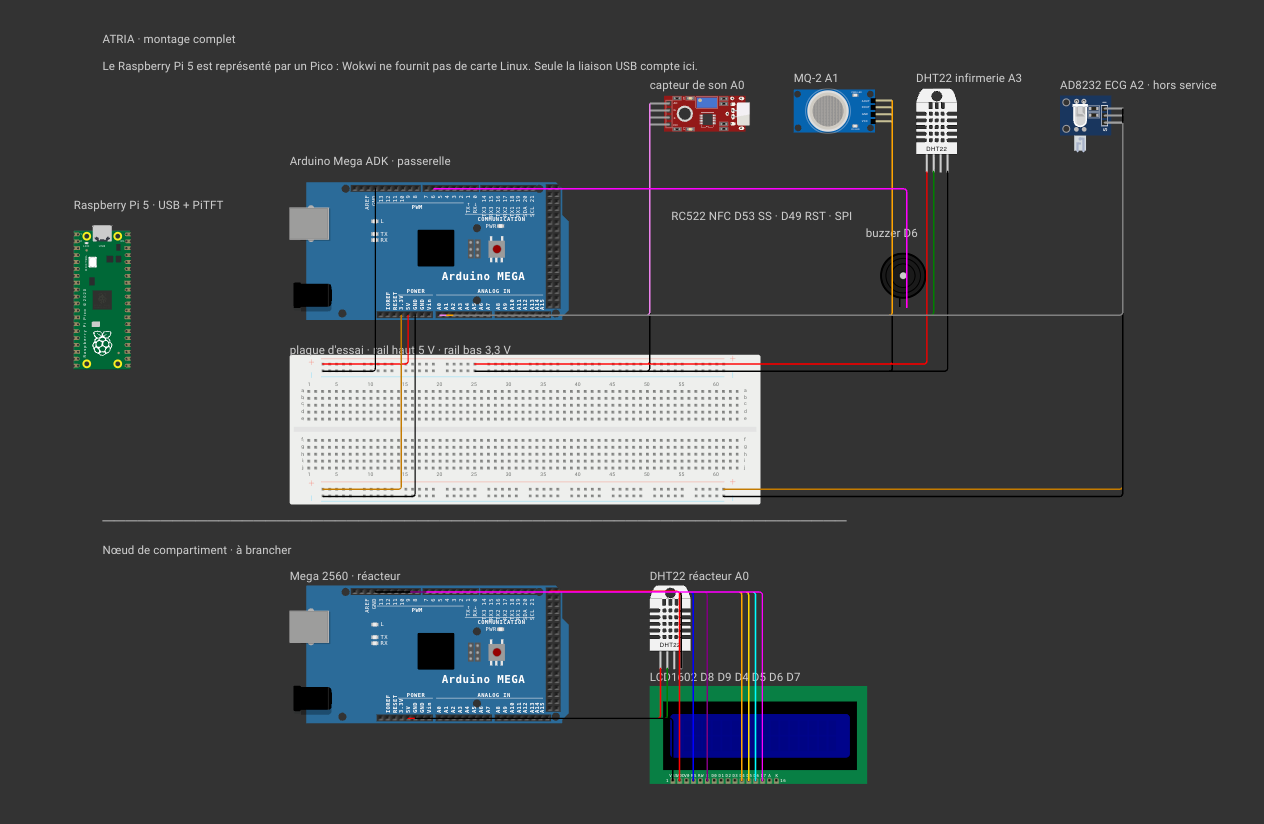
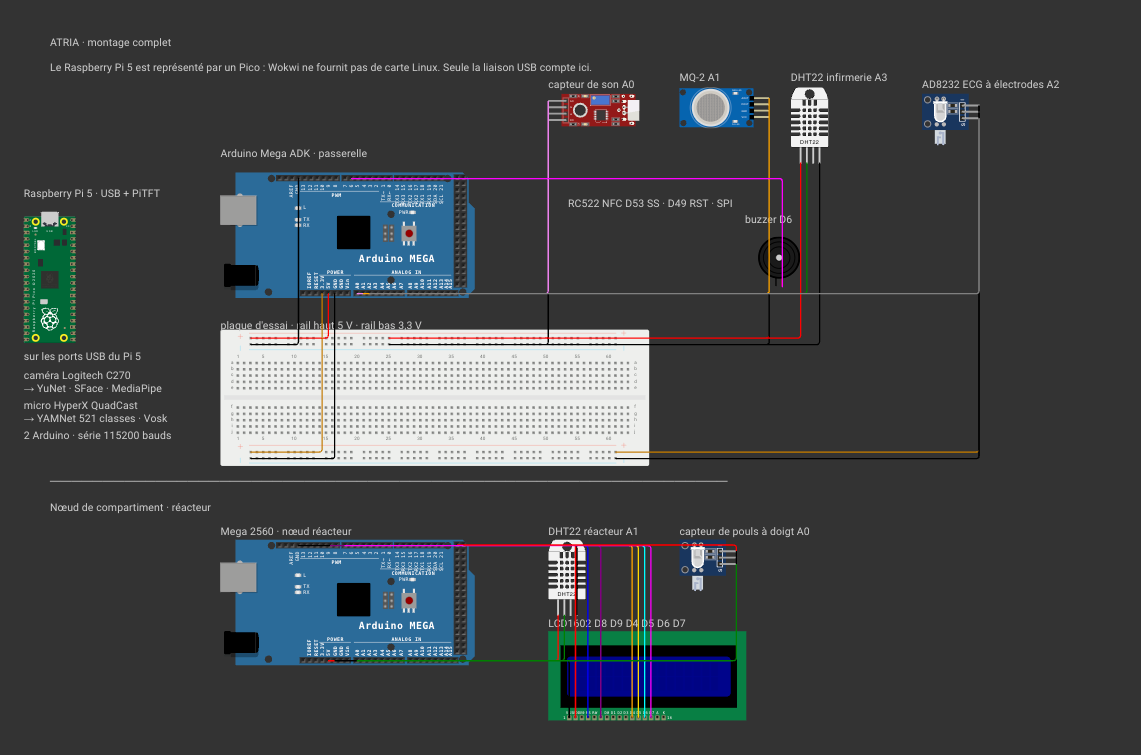
docs: schema du montage final, capteur de pouls et peripheriques USB

Changed region(s): [[0.0, 0.0305, 0.9509, 0.7007], [0.184, 0.6702, 0.7055, 0.9748]]

diff --git a/hardware/wokwi/README.md b/hardware/wokwi/README.md
@@ -35,25 +35,28 @@ Deux cartes, séparées par un trait dans le canevas.
 l'atmosphère de l'infirmerie. Les alimentations passent par les rails de la plaque
 d'essai, les signaux vont directement sur les broches.
 
-| Broche | Composant | Tension | État |
+| Broche | Composant | Tension | Ce qu'elle mesure |
 |---|---|---|---|
-| `A0` | Capteur de son | 5 V | validé |
-| `A1` | MQ-2, fumée et gaz | 5 V | alimenté, non testé au gaz |
-| `A2` | AD8232 `OUTPUT` | 3,3 V | liaison intermittente, hors service |
-| `A3` | DHT22 infirmerie | 5 V | validé, remonte jusqu'au dashboard |
-| `D6` | Buzzer actif | 5 V | validé |
-| `D49` | RC522 `RST` | 3,3 V | validé |
+| `A0` | Capteur de son | 5 V | niveau sonore du compartiment |
+| `A1` | MQ-2 | 5 V | fumée et gaz combustibles, seuil de combustion |
+| `A2` | AD8232 `OUTPUT` | 3,3 V | ECG à électrodes |
+| `A3` | DHT22 infirmerie | 5 V | température et humidité |
+| `D6` | Buzzer actif | 5 V | acquittement de badge |
+| `D49` | RC522 `RST` | 3,3 V | remise à zéro du lecteur |
 | `D50` `D51` `D52` | SPI matériel `MISO` `MOSI` `SCK` | 3,3 V | imposé par le matériel |
-| `D53` | RC522 `SDA` / `SS` | 3,3 V | validé |
+| `D53` | RC522 `SDA` / `SS` | 3,3 V | sélection du lecteur de badges |
 
-**Le nœud de compartiment**, un Mega 2560 avec son afficheur, mesure le réacteur. Il est
-encore à brancher.
+La caméra et le micro ne passent pas par l'Arduino : ils sont branchés en USB sur le Pi,
+qui exécute lui-même les modèles de vision et d'écoute.
 
-| Broche | Composant |
-|---|---|
-| `A0` | DHT22 `DATA`, 5 V |
-| `D8` `D9` | LCD `RS` et `E` |
-| `D4` `D5` `D6` `D7` | LCD `D4`..`D7` |
+**Le nœud de compartiment**, un Mega 2560 avec son afficheur, mesure le réacteur.
+
+| Broche | Composant | Tension |
+|---|---|---|
+| `A0` | Capteur de pouls à doigt | 5 V |
+| `A1` | DHT22 réacteur `DATA` | 5 V |
+| `D8` `D9` | LCD `RS` et `E` | 5 V |
+| `D4` `D5` `D6` `D7` | LCD `D4`..`D7` | 5 V |
 
 Son firmware est dans [`../../firmware/atria_noeud/`](../../firmware/atria_noeud/). Il
 annonce une ligne par seconde :
@@ -67,11 +70,12 @@ Côté Pi, `pi/atria/noeud.py` scrute `/dev/serial/by-id` toutes les quinze seco
 ouvre toute carte qui n'est pas la passerelle. Rien à configurer : brancher le câble
 suffit, la carte annonce elle-même son compartiment.
 
-## Une seule substitution
+## Deux substitutions
 
 Hormis le Pi, tous les composants sont les vrais : Wokwi fournit le RC522, le capteur de
-son et le MQ-2. Seul l'AD8232 est représenté par un capteur cardiaque, faute d'ECG dans
-la bibliothèque, et de toute façon il est hors service.
+son, le MQ-2, les DHT22 et le LCD. Les deux capteurs cardiaques, l'AD8232 à électrodes de
+la passerelle et le capteur de pouls à doigt du nœud, sont représentés par la même pièce
+faute d'équivalent exact dans la bibliothèque.
 
 ## Deux règles de câblage
 
